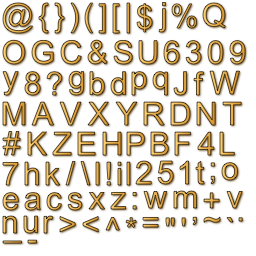
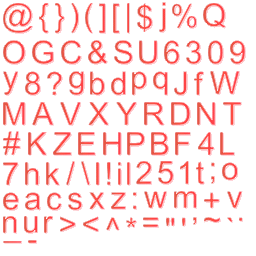
Fix LabelTTF warnings, add Menu button to HUD

diff --git a/Classes/HUD.cpp b/Classes/HUD.cpp
@@ -1,41 +1,12 @@
 #include "Game.h"
 #include "HUD.h"
+#include "MainMenu.h"
 
 #define SCREEN_RESOLUTION_HEIGHT 720
 
 HUD* HUD::s_pInstance;							// Singleton for Heads Up Display
 
 void HUD::init(cocos2d::Layer *layer) {
-	//score = 0;
-	//Game::Instance()->setScore(0);
-	//level = 1;
-	//Game::Instance()->setLevel(1);
-	//time = LEVEL_TIME / 1000;					// Should be 30 seconds
-	/*
-	visibleSize = Director::getInstance()->getVisibleSize();
-	origin = Director::getInstance()->getVisibleOrigin();
-
-	__String *tempLevel = __String::createWithFormat("Level: %i", Game::Instance()->getLevel());
-	//__String *tempScore = __String::createWithFormat("Score: %i", score);
-
-	// Level
-	if (visibleSize.height == 1080) {
-        levelLabel = Label::createWithTTF(tempLevel->getCString(), "fonts/Marker Felt.ttf", visibleSize.height * 0.075f);
-        levelLabel->setPosition(Point(125 + origin.x, visibleSize.height * 0.95 + origin.y));
-    }
-	else {
-        levelLabel = Label::createWithTTF(tempLevel->getCString(), "fonts/Marker Felt.ttf", visibleSize.height * 0.05f);
-        levelLabel->setPosition(Point(75 + origin.x, visibleSize.height * 0.95 + origin.y));
-    }
-	levelLabel->setColor(Color3B::WHITE);
-	layer->addChild(levelLabel, 10000);
-	
-	// Score
-	scoreLabel = Label::createWithTTF(tempScore->getCString(), "fonts/Marker Felt.ttf", visibleSize.height * 0.05f);
-	scoreLabel->setColor(Color3B::WHITE);
-	scoreLabel->setPosition(Point(visibleSize.width / 2 + origin.x, visibleSize.height * 0.95 + origin.y));
-	layer->addChild(scoreLabel, 10000);
-	*/
 	currentTime = 0.0f;																							// Current game time, for timer, changed to float to solve Android timer issue
 }
 
@@ -51,34 +22,63 @@ HUD *HUD::create(cocos2d::Point position, cocos2d::Size res) {
 		__String *tempScore = __String::createWithFormat("Score: %i", Game::Instance()->getScore());
 		__String *tempTime = __String::createWithFormat("Time: %i", s_pInstance->time);
 
+		// Scale up text for my Android phone
+		float scaleUp, scaleDown;
+		(res.height == 1080) ? scaleUp = 1.5f : scaleUp = 1.0f;
+		(res.height == 1080) ? scaleDown = 1.0f : scaleDown = 0.67f;
+
+		// Menu Icon
+		s_pInstance->menuItem = cocos2d::MenuItemImage::create("MenuWR.png", "MenuWG.png");
+		s_pInstance->menuItem->setScale(scaleDown);
+		s_pInstance->menuItem->setPosition(cocos2d::Point((position.x + res.width * 0.05f) * 0.99f, res.height * 0.95 + position.y));
+
 		// Current Level
 		s_pInstance->levelLabel = Label::createWithTTF(tempLevel->getCString(), "fonts/Marker Felt.ttf", res.height * 0.05f);
-		s_pInstance->levelLabel->setPosition(Point(position.x + res.width * 0.05f, position.y + res.height * 0.95));
-		s_pInstance->levelLabel->setColor(Color3B::WHITE);
+		s_pInstance->levelLabel->setTextColor(Color4B::RED);
+		s_pInstance->levelLabel->enableOutline(Color4B::WHITE, 3);
+		s_pInstance->levelLabel->setScale(scaleUp);																				// Scale up the image
+		//s_pInstance->levelLabel->enableOutline(Color4B::WHITE, 2);
+		s_pInstance->levelLabel->setPosition(Point((position.x + res.width * 0.1f) + s_pInstance->menuItem->getContentSize().width, position.y + res.height * 0.95));			// Then set the position
 		s_pInstance->addChild(s_pInstance->levelLabel);
 
 		// Current score
 		s_pInstance->scoreLabel = Label::createWithTTF(tempScore->getCString(), "fonts/Marker Felt.ttf", res.height * 0.05f);
-		s_pInstance->scoreLabel->setColor(Color3B::WHITE);
+		s_pInstance->scoreLabel->setTextColor(Color4B::RED);
+		s_pInstance->scoreLabel->enableOutline(Color4B::WHITE, 3);
+		s_pInstance->scoreLabel->setScale(scaleUp);
 		s_pInstance->scoreLabel->setPosition(Point(res.width / 2 + position.x, res.height * 0.95 + position.y));
 		s_pInstance->addChild(s_pInstance->scoreLabel, 10000);
 
 		// Countdown Timer
 		s_pInstance->timeLabel = Label::createWithTTF(tempTime->getCString(), "fonts/Marker Felt.ttf", res.height * 0.05f);
-		s_pInstance->timeLabel->setPosition(Point((res.width - s_pInstance->timeLabel->getWidth()) * 0.95f, res.height * 0.95 + position.y));
-		s_pInstance->timeLabel->setColor(Color3B::WHITE);
+		s_pInstance->timeLabel->setTextColor(Color4B::RED);
+		s_pInstance->timeLabel->enableOutline(Color4B::WHITE, 3);
+		s_pInstance->timeLabel->setScale(scaleUp);
+		s_pInstance->timeLabel->setPosition(Point(((res.width * 0.925f) - s_pInstance->timeLabel->getWidth()), res.height * 0.95 + position.y));
 		s_pInstance->addChild(s_pInstance->timeLabel);
 
 		// Player number of lives
 		for (unsigned int i = 0; i < MAX_LIVES; i++) {
 			s_pInstance->playerLife = Sprite::create("PlayerLife.png");
 			//s_pInstance->playerLife->setPosition(visibleSize.width * 0.05 + (i * 52), visibleSize.height * 0.05);
-			s_pInstance->playerLife->setPosition(position.x + SCREEN_RESOLUTION_HEIGHT * 0.05f + (i * 52), SCREEN_RESOLUTION_HEIGHT * 0.05f);
+			s_pInstance->playerLife->setScale(scaleUp);
+			s_pInstance->playerLife->setPosition(position.x + res.width * 0.05f + (i * (s_pInstance->playerLife->getContentSize().width * scaleUp)), res.height * 0.05f);
 			s_pInstance->addChild(s_pInstance->playerLife);
 			s_pInstance->livesList[i] = s_pInstance->playerLife;																				// Add life sprite to list of lives
 		}
 		s_pInstance->livesList[3]->setVisible(false);
 		s_pInstance->livesList[4]->setVisible(false);
+
+		// Add exit button in bottom right corner. it's an autorelease object
+		//s_pInstance->closeItem = cocos2d::MenuItemImage::create("CloseNormal.png", "CloseSelected.png", CC_CALLBACK_1(Level::menuCloseCallback, Director::getInstance()->getRunningScene()));	
+		s_pInstance->closeItem = cocos2d::MenuItemImage::create("CloseNormal.png", "CloseSelected.png");	
+		s_pInstance->closeItem->setScale(scaleUp);
+		s_pInstance->closeItem->setPosition(cocos2d::Point((position.x + res.width - s_pInstance->closeItem->getContentSize().width / 2) * 0.99f, res.height * 0.05f));
+
+		// Create A Menu, it's an autorelease object
+		s_pInstance->menuClose = cocos2d::Menu::create(s_pInstance->closeItem, s_pInstance->menuItem, NULL);															// JOR replaced auto specifier
+		s_pInstance->menuClose->setPosition(cocos2d::Point::ZERO);
+		s_pInstance->addChild(s_pInstance->menuClose, 1);
 
 		return s_pInstance;
 	}
@@ -97,6 +97,18 @@ void HUD::update(float curTimeMillis) {
 	timeLabel->setString("Time: " + to_string(Game::Instance()->getTimer()));
 
 	updateTimer(curTimeMillis);
+
+	if (s_pInstance->closeItem->isSelected()) {
+		cocos2d::Director::getInstance()->end();	// Close the director
+
+#if (CC_TARGET_PLATFORM == CC_PLATFORM_IOS)
+		exit(0);
+#endif
+	}
+
+	if (s_pInstance->menuItem->isSelected()) {
+		Director::getInstance()->replaceScene(TransitionRotoZoom::create(0.5, MainMenu::createScene()));	// Return to the main menu
+	}
 }
 
 /*

diff --git a/Classes/Level.cpp b/Classes/Level.cpp
@@ -44,7 +44,7 @@ bool Level::init() {
 
 	(visibleSize.height == 720) ? scaleUp = 1.0f : scaleUp = 1.5f;
 	(visibleSize.height == 1080) ? scaleDown = 1.0f : scaleDown = 0.67f;
-			
+/*
 	// Add exit button in bottom right corner. it's an autorelease object
 	closeItem = cocos2d::MenuItemImage::create("CloseNormal.png", "CloseSelected.png",
 		CC_CALLBACK_1(Level::menuCloseCallback, this));															// JOR replaced auto specifier	
@@ -56,7 +56,7 @@ bool Level::init() {
 	menuClose = cocos2d::Menu::create(closeItem, NULL);															// JOR replaced auto specifier
 	menuClose->setPosition(cocos2d::Point::ZERO);
 	this->addChild(menuClose, 1);
-	
+*/
 	//  GALAXY
 	_batchNode = SpriteBatchNode::create("Sprites.pvr.ccz");													// Player sprite is added here
 	this->addChild(_batchNode);
@@ -132,8 +132,6 @@ bool Level::init() {
 	this->addChild(newHUD);
 	mplayer = MusicPlayer::create(Point((visibleSize.width * 1.33 )/ 2, visibleSize.height * 0.1f));			// Position: scale in MusicPlayer class throws off measurement (undo first)
 	this->addChild(mplayer);
-		
-	//this->scheduleUpdate();
 	
     return true;
 }
@@ -146,24 +144,24 @@ float Level::getTimeTick() {
 }
 
 void Level::update(float dt) {
-	curTimeMillis = getTimeTick();																		// Current game time
+	curTimeMillis = getTimeTick();																			// Current game time
 
-	winSize = Director::getInstance()->getWinSize();													// Dimensions of game screen (Needs to update here so lasers fire etc.)
+	winSize = Director::getInstance()->getWinSize();														// Dimensions of game screen (Needs to update here so lasers fire etc.)
 
-	getInput();																							// Get keyboard input for Windows, Get DPad input for Android
+	getInput();																								// Get keyboard input for Windows, Get DPad input for Android
 
-	Game::Instance()->updateTimer(curTimeMillis);														// Update the countdown timer in Game class, pass in curTimeMillies solves Android Timer issue
+	Game::Instance()->updateTimer(curTimeMillis);															// Update the countdown timer in Game class, pass in curTimeMillies solves Android Timer issue
 
-	_backgroundNode->update(dt);																		// Scroll the background objects
+	_backgroundNode->update(dt);																			// Scroll the background objects
 
-	spawnAsteroids(curTimeMillis);																		// Spawn asteroids
-	spawnEnemyShips(curTimeMillis);																		// Spawn asteroids
-	checkCollisions();																					// Check have game objects collided with each other
-	checkGameOver(curTimeMillis);																		// Check is the game over or not
+	spawnAsteroids(curTimeMillis);																			// Spawn asteroids
+	spawnEnemyShips(curTimeMillis);																			// Spawn asteroids
+	checkCollisions();																						// Check have game objects collided with each other
+	checkGameOver(curTimeMillis);																			// Check is the game over or not
 	
-	player->update();																					// Update player sprite position
-	mplayer->update();																					// Update the music player
-	newHUD->update(curTimeMillis);																		// Update the HUD
+	player->update();																						// Update player sprite position
+	mplayer->update();																						// Update the music player
+	newHUD->update(curTimeMillis);																			// Update the HUD
 }
 
 void Level::spawnAsteroids(float curTimeMillis) {
@@ -437,29 +435,9 @@ void Level::endScene(EndReason endReason) {
 	else 
 		continueItem = MenuItemLabel::create(continueLbl, CC_CALLBACK_1(Level::returnToMenu, this));	// JOR replaced auto specifier XXXXXXXXXXXXXXXXXXXXXXXXXXXXXXXXXXX
 
-	continueItem->setPosition(winSize.width / 2, winSize.height*0.25f);
-
-		//cocos2d::Menu* menu2 = Menu::create(continueItem, NULL);										// JOR replaced auto specifier
-		//menu2->setPosition(Point::ZERO);
-		//this->addChild(menu2);
-		
+	continueItem->setPosition(winSize.width / 2, winSize.height*0.25f);		
 	continueItem->runAction(ScaleTo::create(0.5F, (visibleSize.height == RES_720P) ? 1.0f : 1.5f));		// Scale the continue to next level label
 	
-
-		// Return To Main Menu
-		//strcpy(message, "Main Menu");
-		//message = "Main Menu";
-		//cocos2d::Label* menuLbl = Label::createWithBMFont("Arial.fnt", message);						// JOR replaced auto specifier
-		//continueItem = MenuItemLabel::create(menuLbl, CC_CALLBACK_1(Level::returnToMenu, this));		// JOR replaced auto specifier XXXXXXXXXXXXXXXXXXXXXXXXXXXXXXXXXXX
-		//continueItem->setPosition(winSize.width / 2, winSize.height*0.25f);
-
-		//cocos2d::Menu* menu2 = Menu::create(mainMenuItem, NULL);										// JOR replaced auto specifier
-		//menu2->setPosition(Point::ZERO);
-		//this->addChild(menu2);
-
-		//continueItem->runAction(ScaleTo::create(0.5F, (visibleSize.height == RES_720P) ? 1.0f : 1.5f));// Scale the go to main menu button label
-	
-
 	cocos2d::Menu* menu = Menu::create(restartItem, continueItem, NULL);								// JOR replaced auto specifier
 	menu->setPosition(Point::ZERO);
 	this->addChild(menu);

diff --git a/Classes/AudioMenu.cpp b/Classes/AudioMenu.cpp
@@ -25,7 +25,8 @@ bool AudioMenu::init() {
 	titleSprite->setTexture("AudioMenu.png");																									// Change the title image text
 	
 	// Instructions (MarkerFelt.ttf Super Mario Bros..ttf)
-	instructionLbl = cocos2d::LabelTTF::create("Adjust Audio Volumes", "fonts/Super Mario Bros..ttf", visibleSize.height * 0.045f);				// Label to display current high score	
+	//instructionLbl = cocos2d::LabelTTF::create("Adjust Audio Volumes", "fonts/Super Mario Bros..ttf", visibleSize.height * 0.045f);				// Label to display current high score	
+	instructionLbl = cocos2d::Label::createWithTTF("Adjust Audio Volumes", "fonts/Super Mario Bros..ttf", visibleSize.height * 0.045f);
 	instructionLbl->setPosition(cocos2d::Point(visibleSize.width * 0.5 + origin.x, visibleSize.height * 0.65f + origin.y));						// Set its position on screen
 	instructionLbl->setColor(cocos2d::Color3B::WHITE);																							// Set the text colour
 	//instructionLbl->setScale(scale);																											// Set the scale
@@ -63,7 +64,8 @@ bool AudioMenu::init() {
 	btnFXUpImg->setPosition(cocos2d::Point(visibleSize.width * 0.7f + origin.x, visibleSize.height * 0.45f + origin.y));						// Set image positionscreen
 	btnFXUpImg->setScale(scale);																												// Set the scale
 	
-	instructionLbl = cocos2d::LabelTTF::create("Select Music Track", "fonts/Super Mario Bros..ttf", visibleSize.height * 0.045f);				// Label to display current high score	
+	//instructionLbl = cocos2d::LabelTTF::create("Select Music Track", "fonts/Super Mario Bros..ttf", visibleSize.height * 0.045f);				// Label to display current high score	
+	instructionLbl = cocos2d::Label::createWithTTF("Select Music Track", "fonts/Super Mario Bros..ttf", visibleSize.height * 0.045f);
 	instructionLbl->setPosition(cocos2d::Point(visibleSize.width * 0.5 + origin.x, visibleSize.height * 0.35f + origin.y));						// Set its position on screen
 	instructionLbl->setColor(cocos2d::Color3B::WHITE);																							// Set the text colour
 	//instructionLbl->setScale(scale);																											// Set the scale
@@ -86,7 +88,8 @@ bool AudioMenu::init() {
 	//btnTrackUpImg->setScale(scale);																											// Set the scale
 	
 	// Current Track
-	currentTrackLbl = cocos2d::LabelTTF::create(Audio::Instance()->getTrackName(), "fonts/Super Mario Bros..ttf", visibleSize.height * 0.045f);	// Label to display current high score	
+	//currentTrackLbl = cocos2d::LabelTTF::create(Audio::Instance()->getTrackName(), "fonts/Super Mario Bros..ttf", visibleSize.height * 0.045f);	// Label to display current high score	
+	currentTrackLbl = cocos2d::Label::createWithTTF(Audio::Instance()->getTrackName(), "fonts/Super Mario Bros..ttf", visibleSize.height * 0.045f);
 	currentTrackLbl->setPosition(cocos2d::Point(visibleSize.width * 0.5 + origin.x, visibleSize.height * 0.15f + origin.y));					// Set its position on screen
 	currentTrackLbl->setColor(cocos2d::Color3B::WHITE);																							// Set the text colour
 	//currentTrackLbl->setScale(scale);																											// Set the scale

diff --git a/Classes/Settings.cpp b/Classes/Settings.cpp
@@ -57,7 +57,9 @@ bool Settings::init() {
 		
 	// Instructions
 	//MarkerFelt.ttf Super Mario Bros..ttf 
-	instructionLbl = LabelTTF::create("Adjust Audio Volumes", "fonts/Super Mario Bros..ttf", visibleSize.height * 0.045f);			// Label to display current high score	
+	//instructionLbl = LabelTTF::create("Adjust Audio Volumes", "fonts/Super Mario Bros..ttf", visibleSize.height * 0.045f);			// Label to display current high score	
+	instructionLbl = cocos2d::Label::createWithTTF("Adjust Audio Volumes", "fonts/Super Mario Bros..ttf", visibleSize.height * 0.045f);// Label to display current high score
+
 	instructionLbl->setPosition(Point(visibleSize.width * 0.5 + origin.x, visibleSize.height * 0.65f + origin.y));					// Set its position on screen
 	instructionLbl->setColor(Color3B::WHITE);																						// Set the text colour
 	//instructionLbl->setScale(scale);																								// Set the scale
@@ -107,7 +109,8 @@ bool Settings::init() {
 	btnFXUp->setPosition(Point::ZERO);																								// Set position on 
 	this->addChild(btnFXUp);
 	
-	instructionLbl = LabelTTF::create("Select Music Track", "fonts/Super Mario Bros..ttf", visibleSize.height * 0.045f);				// Label to display current high score	
+	//instructionLbl = LabelTTF::create("Select Music Track", "fonts/Super Mario Bros..ttf", visibleSize.height * 0.045f);			// Select track label
+	instructionLbl = cocos2d::Label::createWithTTF("Select Music Track", "fonts/Super Mario Bros..ttf", visibleSize.height * 0.045f);// Select track label
 	instructionLbl->setPosition(Point(visibleSize.width * 0.5 + origin.x, visibleSize.height * 0.35f + origin.y));					// Set its position on screen
 	instructionLbl->setColor(Color3B::WHITE);																						// Set the text colour
 	//instructionLbl->setScale(scale);																								// Set the scale
@@ -137,8 +140,8 @@ bool Settings::init() {
 	
 
 	// Current Track
-	//currentTrackLbl = LabelTTF::create(trackNames[trackSelect], "fonts/Super Mario Bros..ttf", visibleSize.height * 0.045f);			// Label to display current high score
-	currentTrackLbl = LabelTTF::create(Audio::Instance()->getTrackName(), "fonts/Super Mario Bros..ttf", visibleSize.height * 0.045f);	// Label to display current high score	
+	//currentTrackLbl = LabelTTF::create(Audio::Instance()->getTrackName(), "fonts/Super Mario Bros..ttf", visibleSize.height * 0.045f);	// Show the current tracks name
+	currentTrackLbl = cocos2d::Label::createWithTTF(Audio::Instance()->getTrackName(), "fonts/Super Mario Bros..ttf", visibleSize.height * 0.045f);// Show the current tracks name
 	currentTrackLbl->setPosition(Point(visibleSize.width * 0.5 + origin.x, visibleSize.height * 0.15f + origin.y));						// Set its position on screen
 	currentTrackLbl->setColor(Color3B::WHITE);																							// Set the text colour
 	//currentTrackLbl->setScale(scale);																									// Set the scale

diff --git a/Classes/MusicPlayer.cpp b/Classes/MusicPlayer.cpp
@@ -53,9 +53,12 @@ MusicPlayer *MusicPlayer::create(cocos2d::Point position) {
 		s_pInstance->forward->setScale(-1);
 
 		// Display the current track information
-		s_pInstance->currentTrackLbl = cocos2d::LabelTTF::create(Audio::Instance()->getTrackName(), "fonts/Super Mario Bros..ttf", s_pInstance->pause->getContentSize().height * 0.4f);
+		//s_pInstance->currentTrackLbl = cocos2d::LabelTTF::create(Audio::Instance()->getTrackName(), "fonts/Super Mario Bros..ttf", s_pInstance->pause->getContentSize().height * 0.4f);
+		s_pInstance->currentTrackLbl = cocos2d::Label::createWithTTF(Audio::Instance()->getTrackName(), "fonts/Super Mario Bros..ttf", s_pInstance->pause->getContentSize().height * 0.4f);
 		s_pInstance->currentTrackLbl->setPosition(cocos2d::Point(position.x, position.y - (s_pInstance->pause->getContentSize().height) * 0.75f));
-		s_pInstance->currentTrackLbl->setColor(cocos2d::Color3B::WHITE);
+		//s_pInstance->currentTrackLbl->setColor(cocos2d::Color3B::WHITE);
+		s_pInstance->currentTrackLbl->setTextColor(cocos2d::Color4B::RED);
+		s_pInstance->currentTrackLbl->enableOutline(cocos2d::Color4B::WHITE, 3);
 		s_pInstance->addChild(s_pInstance->currentTrackLbl);
 		//s_pInstance->addChild(currentTrackLbl, 100);
 

diff --git a/Classes/MainMenu.cpp b/Classes/MainMenu.cpp
@@ -70,7 +70,9 @@ bool MainMenu::init() {
 	std::string playerName = def->getStringForKey("Name1");
 	
 	tempScore = __String::createWithFormat("Top Score: %s %d", playerName.c_str(), highScore);										// String to display the top score & player	
-	highScoreLbl = LabelTTF::create(tempScore->getCString(), "fonts/Super Mario Bros..ttf", visibleSize.height * 0.125f);			// Other fonts: MarkerFelt.ttf arial.ttf" Zombiebites.ttf Mario.ttf Super Mario Bros..ttf
+
+	highScoreLbl = cocos2d::Label::createWithTTF(tempScore->getCString(), "fonts/Super Mario Bros..ttf", visibleSize.height * 0.125f);// Label to display current high score (Label replaces LabelTTF causing warnings)
+	//highScoreLbl = LabelTTF::create(tempScore->getCString(), "fonts/Super Mario Bros..ttf", visibleSize.height * 0.125f);			// Other fonts: MarkerFelt.ttf arial.ttf" Zombiebites.ttf Mario.ttf Super Mario Bros..ttf
 	highScoreLbl->setPosition(Point(visibleSize.width * 0.5f + origin.x, visibleSize.height * 0.2f + origin.y));
 	highScoreLbl->setColor(Color3B::RED);
 	highScoreLbl->setScale(scale * 0.6f);

diff --git a/Classes/HighScores.cpp b/Classes/HighScores.cpp
@@ -41,8 +41,10 @@ bool HighScores::init() {
 	sortScores();																// set value for tempScore
 
 	//MarkerFelt.ttf Super Mario Bros..ttf 
-	highScoreLbl = LabelTTF::create(tempScore->getCString(), 
-		"fonts/Super Mario Bros..ttf", visibleSize.height * 0.06f);				// Label to display current high score	
+	//highScoreLbl = LabelTTF::create(tempScore->getCString(), 
+	//	"fonts/Super Mario Bros..ttf", visibleSize.height * 0.06f);				// Label to display current high score	
+	highScoreLbl = cocos2d::Label::createWithTTF(tempScore->getCString(),
+		"fonts/Super Mario Bros..ttf", visibleSize.height * 0.06f);				// Label to display current high score (Label replaces LabelTTF causing warnings)
 	highScoreLbl->setPosition(Point(visibleSize.width * 0.5 + origin.x, 
 		visibleSize.height * 0.4f + origin.y));									// Set its position on screen
 	highScoreLbl->setColor(Color3B::WHITE);										// Set the text colour

diff --git a/Classes/EnterName.cpp b/Classes/EnterName.cpp
@@ -29,8 +29,10 @@ bool EnterName::init() {
 	titleSprite->setTexture("EnterName.png");											// Change the title image text
 		
 	// Instructions (MarkerFelt.ttf Super Mario Bros..ttf) 
-	instructionLbl = LabelTTF::create("Enter up to 12 characters", 
-		"fonts/Super Mario Bros..ttf", visibleSize.height * 0.05f);						// Label to display current high score	
+	//instructionLbl = LabelTTF::create("Enter up to 12 characters", 
+	//	"fonts/Super Mario Bros..ttf", visibleSize.height * 0.05f);						// Label to display current high score	
+	instructionLbl = cocos2d::Label::createWithTTF("Enter up to 12 characters",
+		"fonts/Super Mario Bros..ttf", visibleSize.height * 0.05f);
 	instructionLbl->setPosition(Point(visibleSize.width * 0.5 + origin.x, 
 		visibleSize.height * 0.6f + origin.y));											// Set its position on screen
 	instructionLbl->setColor(Color3B::WHITE);											// Set the text colour

diff --git a/Classes/HUD.h b/Classes/HUD.h
@@ -47,9 +47,13 @@ private:
 
 	static HUD* s_pInstance;										// Single instance of HUD used as singleton, so only one instance exists thoughout the game
 	
-	cocos2d::Label* levelLabel;										// Display the current level
-	cocos2d::Label* scoreLabel;										// Display the current score
-	cocos2d::Label * timeLabel;										// Display the time remaining
+	cocos2d::Label *levelLabel;										// Display the current level
+	cocos2d::Label *scoreLabel;										// Display the current score
+	cocos2d::Label *timeLabel;										// Display the time remaining
+
+	cocos2d::MenuItemImage* closeItem;								// Exit button in bottom right corner
+	cocos2d::MenuItemImage* menuItem;								// Menu sprite
+	cocos2d::Menu* menuClose;										// Menu items
 
 	// Lives
 	cocos2d::Sprite *playerLife;									// Indicate lives left

diff --git a/Classes/AudioMenu.h b/Classes/AudioMenu.h
@@ -34,8 +34,10 @@ private:
 	cocos2d::Sprite* musicLbl;						// Music volume setting label
 	cocos2d::Sprite* sfxLbl;						// SFX volume setting label
 	cocos2d::Sprite* trackLbl;						// Track select setting label
-	cocos2d::LabelTTF* instructionLbl;				// Label to display current high score
-	cocos2d::LabelTTF* currentTrackLbl;				// Label to display current background music track
+	//cocos2d::LabelTTF* instructionLbl;				// Label to display current high score
+	//cocos2d::LabelTTF* currentTrackLbl;				// Label to display current background music track
+	cocos2d::Label* instructionLbl;					// Label to display current high score
+	cocos2d::Label* currentTrackLbl;				// Label to display current background music track
 
 	// Menu button images
 	cocos2d::MenuItemImage* btnBackImg;				// Set image for Back Button menu option

diff --git a/Classes/MenuScene.cpp b/Classes/MenuScene.cpp
@@ -50,7 +50,9 @@ bool MenuScene::init() {
 	(visibleSize.height == 1080) ? scale = 1.0f : scale = 0.67f;
 	
 	// Background image
-	backgroundSprite = cocos2d::Sprite::create((visibleSize.height == 1080) ? "BG1080p.png" : "BG720p.png");						// Background image
+	//backgroundSprite = cocos2d::Sprite::create((visibleSize.height == 1080) ? "BG1080p.png" : "BG720p.png");						// Choose Background image depending on resolution
+	backgroundSprite = cocos2d::Sprite::create("BG1080p.png");																		// Use one high res background image for efficiency
+	backgroundSprite->setScale(scale);
 	backgroundSprite->setPosition(cocos2d::Point(visibleSize.width / 2 + origin.x, visibleSize.height / 2 + origin.y));				// Set backgound position
 	this->addChild(backgroundSprite);																								// Add to layer
 	

diff --git a/Classes/Settings.h b/Classes/Settings.h
@@ -66,10 +66,12 @@ private:
 	cocos2d::Menu* btnTrackDown;
 
 	// High Score
-	cocos2d::LabelTTF* instructionLbl;			// Label to display current high score
-	cocos2d::LabelTTF* currentTrackLbl;			// Label to display current background music track
+	//cocos2d::LabelTTF* instructionLbl;			// Label to display current high score
+	//cocos2d::LabelTTF* currentTrackLbl;			// Label to display current background music track
+	cocos2d::Label* instructionLbl;					// Label to display current high score
+	cocos2d::Label* currentTrackLbl;				// Label to display current background music track
 	int trackSelect = 0;
-	//std::string currentTrack[3];				// The name of the current track
+	//std::string currentTrack[3];					// The name of the current track
 };
 
 #endif // __SETTINGS_H__
